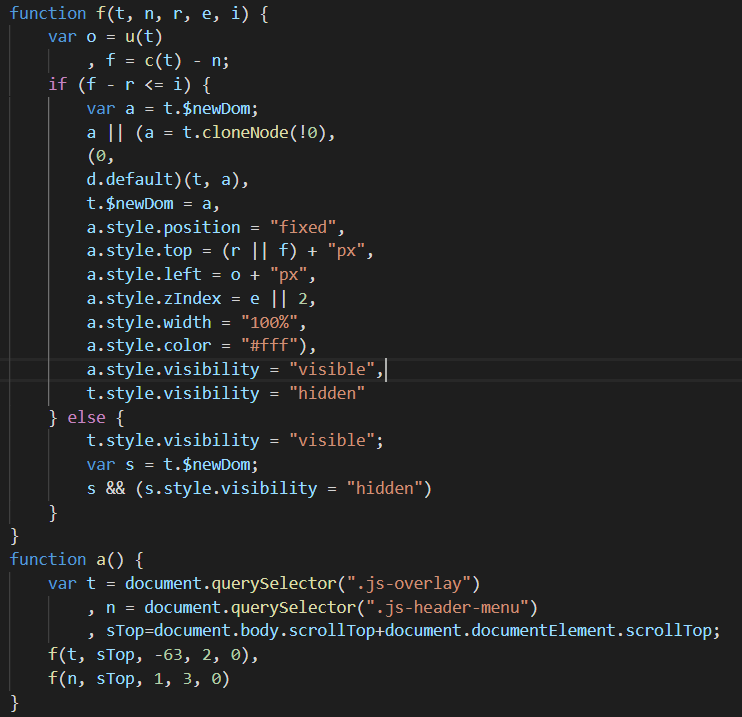
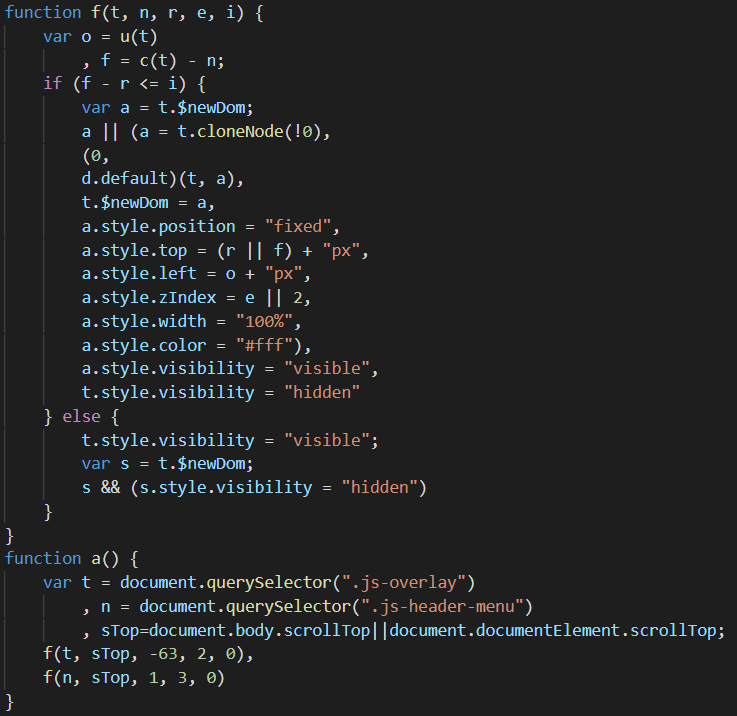
...

diff --git a/themes/yilia/source/main.0cf68a.js b/themes/yilia/source/main.0cf68a.js
@@ -1135,7 +1135,11 @@
                 var i = null
                   , a = window.onscroll
                   , u = e.onclick;
-                (t || window).onscroll = r(function() {
+                t.onscroll = r(function() {
+                    "function" == typeof a && a.apply(this, arguments),
+                    o()
+                }, 100),
+                window.onscroll = r(function() {
                     "function" == typeof a && a.apply(this, arguments),
                     o()
                 }, 100),

diff --git a/themes/yilia/source/mobile.992cbe.js b/themes/yilia/source/mobile.992cbe.js
@@ -3768,7 +3768,7 @@
     function a() {
         var t = document.querySelector(".js-overlay")
             , n = document.querySelector(".js-header-menu")
-            , sTop=document.body.scrollTop+document.documentElement.scrollTop;
+            , sTop=document.body.scrollTop||document.documentElement.scrollTop;
         f(t, sTop, -63, 2, 0),
         f(n, sTop, 1, 3, 0)
     }

diff --git a/themes/yilia/source/main.0cf68a.css b/themes/yilia/source/main.0cf68a.css
@@ -2966,7 +2966,15 @@ pre .css~* .id,pre .id {
     }
 
     .wrap-side-operation {
-        display: none
+        right: 0
+    }
+
+    .jump-container:hover .icon-back {
+        background: #ccc
+    }
+
+    .jump-container:active .icon-back {
+        background: rgba(36,193,246,.9)
     }
 
     .cloud-tie-wrapper {

diff --git a/source/_posts/yilia主题常见问题及解决办法.md b/source/_posts/yilia主题常见问题及解决办法.md
@@ -136,14 +136,10 @@ Google Chrome浏览器
 在我的手机自带浏览器中，博客页面往下滑，你会看到一个效果
 当顶部主页和随笔标签要滑出屏外时，那两个标签会自动在顶端悬停，看图片（主题作者博客测试 网址：[http://litten.me/](http://litten.me/)）
 ***
-![](12.jpg)
-***
-这个是手机自带浏览器显示的效果，这个动画设计的很好，代码我不会。
-有兼容问题的浏览器(Microsoft Edge测试，Google Chrome显示效果相同)
-***
-![](13.jpg)
-***
-动画直接没有，那两个标签直接就滑上去了，但是有一个标签下来了，最左边那个多功能标签，没有背景色，白色的字体，不仔细看都看不出来
+左面是是手机自带浏览器显示的效果，这个动画设计的很好，代码我不会。右面是有兼容问题的浏览器(Microsoft Edge测试，Google Chrome显示效果相同)
+<div><img width=50% src="12.jpg"/><img width=50% src="13.jpg"/></div>
+
+右面的没有左面的效果，那两个标签直接就滑上去了，但是有一个标签下来了，最左边那个多功能标签，没有背景色，白色的字体，不仔细看都看不出来
 这个问题起初我以为是我把主题某个配置文件改了导致的，但是作者博客在Chrome浏览器中测试的结果跟我一样，看来不是我以为的问题，而是这个博客的通病。某个动画效果在这几个浏览器中不兼容。整了将近一下午，也没找到解决办法，主要是前端的知识学的不够，现在学java了，前端的知识忘得更多了。
 **解决方法（自己研究）**
 - 既然有一个标签能下来，有时可能看不见，那就让它可见，添加一个背景色，与上面的颜色相同（因为这个标签是从上面移动下来的，如果颜色不一样，看着很不协调），将背景色改为透明
@@ -275,18 +271,18 @@ Chrome：
 var sTop=document.body.scrollTop+document.documentElement.scrollTop;
 这两个值总会有一个恒为0，所以不用担心会对真正的scrollTop造成影响。一点小技巧，但很实用。
 ***
-- 这个介绍中，明确说了`document.body.scrollTop`在不同浏览器上的不同情况，的确有兼容问题。而且文章中说**谷歌浏览器只认识document.body.scrollTop**，但是我就是在谷歌浏览器上测试效果的，很显然谷歌是不认`document.body.scrollTop`的，因为值始终为0。文章中有提到**因为document.body.scrollTop与document.documentElement.scrollTop两者有个特点，就是同时只会有一个值生效。比如document.body.scrollTop能取到值的时候，document.documentElement.scrollTop就会始终为0；反之亦然。**所以运用文章中的方法`var sTop=document.body.scrollTop+document.documentElement.scrollTop;`测试，方法的确有效，alert后，那个值不为0了
+- 这个介绍中，明确说了`document.body.scrollTop`在不同浏览器上的不同情况，的确有兼容问题。而且文章中说**谷歌浏览器只认识document.body.scrollTop**，但是我就是在谷歌浏览器上测试效果的，很显然谷歌是不认`document.body.scrollTop`的，因为值始终为0。文章中有提到**因为document.body.scrollTop与document.documentElement.scrollTop两者有个特点，就是同时只会有一个值生效。比如document.body.scrollTop能取到值的时候，document.documentElement.scrollTop就会始终为0；反之亦然。**所以运用文章中的方法`var sTop=document.body.scrollTop+document.documentElement.scrollTop;`测试，方法的确有效，alert后，那个值不为0了。当然，可能会有浏览器`document.body.scrollTop`和`document.documentElement.scrollTop`都识别的情况，因此，提供一个`||`语句判断，即`var sTop=document.body.scrollTop||document.documentElement.scrollTop;`。
 - 代码修改如下：
 ```
 function a() {
         var t = document.querySelector(".js-overlay")
             , n = document.querySelector(".js-header-menu")
-            , sTop=document.body.scrollTop+document.documentElement.scrollTop;
+            , sTop=document.body.scrollTop||document.documentElement.scrollTop;
         f(t, sTop, -63, 2, 0),
         f(n, sTop, 1, 3, 0)
     }
 ```
-- 声明一个sTop变量，`var sTop=document.body.scrollTop+document.documentElement.scrollTop;`，将这个变量传到**f函数**中，在浏览器上测试出现了效果。（js效果实现）
+- 声明一个sTop变量，`var sTop=document.body.scrollTop||document.documentElement.scrollTop;`，将这个变量传到**f函数**中，在浏览器上测试出现了效果。（js效果实现）
 ***
 ![](18.png)
 ***
@@ -297,6 +293,176 @@ function a() {
 折腾了几次，找到了问题。如果微信分享二维码存在（即图片路径有效），那么微信分享的div标签即真正隐藏，如果无效，那它就会在顶部的那几个a标签上面隐藏，而使你不能点击那几个a标签
 **解决方法**
 在主题配置文件中关闭分享（我认为分享这个功能没有什么用，想分享直接把url地址分享出去就可以了）或者给微信分享的那个图片添加地址路径
+### 7.yillia主题移动端页面没有返回顶部按钮
+说到这个返回顶部按钮，其实开发者最初开发这款主题时就没有返回顶部按钮，返回顶部按钮是开发者后期加上去的。但是返回顶部按钮只出现在pc端，移动端并没有出现。自己折腾了一下，改了几行代码，解决了移动端没有返回顶部按钮的问题。
+**问题分析**
+- pc端页面按钮出现，移动端按钮不出现。pc浏览器控制台发现，返回顶部按钮是在aside标签中实现的。在pc端页面，aside标签样式display为block，但是在移动端页面，aside标签display值为none。none值为隐藏（这里说明一下，开发者刻意在移动端样式中加了这段代码，这段代码的加入，即使之后的那个o函数被调用，返回顶部的按钮也不会出现）。
+```
+    .wrap-side-operation {
+        display: none
+    }
+```
+- 在aside标签中的div标签看到了`js-jump-container`，依然是调用了script。用编译器打开主题文件，在里面查找`js-jump-container`。在`themes\yilia\source\main.0cf68a.js`中找到相应函数
+```
+    189: function(e, t) {
+        "use strict";
+        function n() {
+            o(document.getElementById("js-jump-container"), document.getElementById("container"))
+        }
+        var o = function(e, t, n) {
+            function o() {
+                e.style.display = (t.scrollTop || document.documentElement.scrollTop || document.body.scrollTop) > (n || 500) ? "block" : "none"
+            }
+            function r(e, t) {
+                var n = null;
+                return function() {
+                    var o = this
+                      , r = arguments;
+                    n && clearTimeout(n),
+                    n = setTimeout(function() {
+                        return "function" == typeof e && e.apply(o, r)
+                    }, t)
+                }
+            }
+            if (e) {
+                var i = null
+                  , a = window.onscroll
+                  , u = e.onclick;
+                (t || window).onscroll = r(function() {
+                    "function" == typeof a && a.apply(this, arguments),
+                    o()
+                }, 100),
+                e.onclick = function() {
+                    "function" == typeof u && u.apply(this, arguments);
+                    t.scrollTop || document.documentElement.scrollTop || document.body.scrollTop;
+                    i = setInterval(function() {
+                        var e = t.scrollTop || document.documentElement.scrollTop || document.body.scrollTop
+                          , n = Math.max(10, e / 6);
+                        e -= n,
+                        e > 0 ? (t.scrollTop = t.scrollTop - n,
+                        window.scrollTo(0, e)) : (t.scrollTop = 0,
+                        window.scrollTo(0, 0),
+                        clearInterval(i))
+                    }, 10)
+                }
+            }
+        };
+        e.exports = {
+            init: n
+        }
+    },
+```
+***
+- 问题就出现在o函数调用上
+![](19.png)
+- 移动端o函数始终不被调用，起初以为是匿名函数在移动端不会被调用，强制调用后，问题没解决
+- 经查询，问题出现在了这上面
+![](20.png)
+- `(t || window).onscroll`,`(t || window)`出了问题，这段代码只在pc端生效，到移动端就不生效了。尝试把`||`换成`|`,问题没解决，反而在控制台报错了。
+- 简单说一下，这段代码和后面的`o()`怎么联系起来的我是没看明白，感觉`(t || window).onscroll`是一个判断，onscroll是在元素轴滚动时触发的。
+- 测试结果显示：`(t || window).onscroll`,`(t || window)`控制后面`o()`函数的调用（我也不太理解这段代码为什么会控制o()的调用，但事实就是如此），`t.onscroll`适用于pc端，`window.onscroll`适用于移动端。
+- o()作用是将标签`<div class="jump-container" id="js-jump-container" style="display: none;"></div>`的`style="display: none;"`改为`style="display: block;"`，从而显示出返回顶部的i标签，点击返回顶部的i标签触发下面返回顶部函数的实现。但是，在移动端样式中，aside标签是被加了`display: none`的，这个div标签被嵌套在aside标签里面。所以，如果想在移动端添加返回顶部标签，`display: none`不能留。
+- 到此，问题查明
+***
+**解决方法**
+- 定位文件`themes\yilia\source\main.0cf68a.css`,在里面查找`.wrap-side-operation`，找到`@media screen and (max-width: 800px)`下的`.wrap-side-operation`，因为要在移动端页面添加返回顶部按钮，所以要在移动端的样式下修改，`@media screen and (max-width: 800px)`即为移动端不同于pc端的样式，在移动端页面时，`@media screen and (max-width: 800px)`样式的权重是高于非`@media screen and (max-width: 800px)`下样式的权重的。
+![](21.png)
+- 修改内容如下：
+```
+    .wrap-side-operation {
+        right: 0
+    }
+
+    .jump-container:hover .icon-back {
+        background: #ccc
+    }
+
+    .jump-container:active .icon-back {
+        background: rgba(36,193,246,.9)
+    }
+```
+- 将`display: none`去掉添加`right: 0`,right控制按钮距离右面的距离，pc端样式right为40px,根据需要更改。以下图片为pc端`right: 40px`与移动端`rigth: 0`效果
+
+<div><img width=50% src ="22.png"/><img width=50% src ="23.png"/></div>
+
+- 添加`.jump-container:hover .icon-back {background: #ccc}`和`.jump-container:active .icon-back {background: rgba(36,193,246,.9)}`的原因是修改点击返回顶部按钮样式。pc端样式代码：
+```
+.jump-container:hover .icon-back {
+    background: rgba(36,193,246,.9)
+}
+```
+- 如果不单独添加那两段代码，移动端返回顶部按钮被点击时，按钮会变为蓝色，且不会还原(刷新页面后会还原)，pc端那个变蓝色是鼠标悬停样式，到移动端会出问题，也有可能会不变色。利用权重的关系，在移动端样式添加这两段代码，只在移动端生效。`:active`为鼠标单击时样式，`:hover`为鼠标悬停时样式。个人感觉`:active`更适用于移动端。
+- `themes\yilia\source\main.0cf68a.js`文件中修改`(t || window).onscroll`。将`(t || window).onscroll`拆开，写成两个
+```
+                t.onscroll = r(function() {
+                    "function" == typeof a && a.apply(this, arguments),
+                    o()
+                }, 100),
+                window.onscroll = r(function() {
+                    "function" == typeof a && a.apply(this, arguments),
+                    o()
+                }, 100),
+```
+- 修改后的函数为
+```
+    189: function(e, t) {
+        "use strict";
+        function n() {
+            o(document.getElementById("js-jump-container"), document.getElementById("container"))
+        }
+        var o = function(e, t, n) {
+            function o() {
+                e.style.display = (t.scrollTop || document.documentElement.scrollTop || document.body.scrollTop) > (n || 500) ? "block" : "none"
+            }
+            function r(e, t) {
+                var n = null;
+                return function() {
+                    var o = this
+                      , r = arguments;
+                    n && clearTimeout(n),
+                    n = setTimeout(function() {
+                        return "function" == typeof e && e.apply(o, r)
+                    }, t)
+                }
+            }
+            if (e) {
+                var i = null
+                  , a = window.onscroll
+                  , u = e.onclick;
+                t.onscroll = r(function() {
+                    "function" == typeof a && a.apply(this, arguments),
+                    o()
+                }, 100),
+                window.onscroll = r(function() {
+                    "function" == typeof a && a.apply(this, arguments),
+                    o()
+                }, 100),
+                e.onclick = function() {
+                    "function" == typeof u && u.apply(this, arguments);
+                    t.scrollTop || document.documentElement.scrollTop || document.body.scrollTop;
+                    i = setInterval(function() {
+                        var e = t.scrollTop || document.documentElement.scrollTop || document.body.scrollTop
+                          , n = Math.max(10, e / 6);
+                        e -= n,
+                        e > 0 ? (t.scrollTop = t.scrollTop - n,
+                        window.scrollTo(0, e)) : (t.scrollTop = 0,
+                        window.scrollTo(0, 0),
+                        clearInterval(i))
+                    }, 10)
+                }
+            }
+        };
+        e.exports = {
+            init: n
+        }
+    },
+```
+- 到此，移动端返回顶部按钮添加成功（主题配置文件依然控制返回顶部按钮的实现）
+***
+通过几次修改主题功能做出以下总结：
+1.开发者很用心，用到js的地方均有js标注，为查找函数省去了一定的麻烦
+2.开发者也考虑到了部分标签在不同浏览器不兼容的情况，开发者运用的是`||`语句，这一点启发了我
+3.ejs文件是导入html代码用的
 ***
 **主题的开发者好久没有更新主题了，有什么问题就要自己动手解决**
 ***

diff --git a/source/_posts/网络程序设计实习报告.md b/source/_posts/网络程序设计实习报告.md
@@ -49,10 +49,10 @@ java实习：机票销售系统
 机票销售系统是可基于任何操作系统上，通过对目前大量出现在网络上的航空订票系统的分析和总结，然后根据航空运作特点，研究一套适合于广大乘客需要、企业认可的航空订票系统。要求系统有简单易懂的视图操作界面，大力提高系统的交互性和可操作性，尽可能减少使用人员的不便，让他们更简单、更快捷、更方便的进行操作。另外，要求系统具有较强的稳定性、可维护性、可移植性、扩充性。同时，实现控制各种用户系统权限，从而保证系统安全性。通过对已有的航空订票系统的研究，结合这些系统存在的优缺点而设计本系统。
 （2）功能需求
 1.机票销售系统，因为涉及到查询，所以考虑利用图结构进行存储。每一个城市作为图中的一个节点，利用邻接矩阵结构进行表示图结构，两节点之间用定义的航班信息结构体进行表示。如果为NULL 则表示没有两城市之间没有航线。然后输入两城市名称后，可以利用改写后的迪克斯特拉或者弗洛伊德算法进行查询。
-2.然后作为订票系统，则应该可以预定三十日以内的飞机票。所以我建立三个文件夹：flight_record、month_flight_information、booking_record
-flight_record 用来存储城市间的航班信息；
-month_flight_information 用来存储三十日内每天的航班信息（每日打开软件会根据flight_record文件夹中的信息进行自动更新）；
-booking_record用来存放订票记录
+2.然后作为订票系统，则应该可以预定三十日以内的飞机票。所以我们建立三个文件夹：flight_record、month_flight_information、booking_record
+- flight_record 用来存储城市间的航班信息；
+- month_flight_information 用来存储三十日内每天的航班信息（每日打开软件会根据flight_record文件夹中的信息进行自动更新）；
+- booking_record用来存放订票记录
 3.为方便管理使用，该系统一个登陆界面根据登陆人群不同分为两个使用界面，分别是用户界面和管理界面。用户在注册的时候，系统会先进行身份证号是否合法验证和查重，如果已经存在则让其联系管理员。
 ***
 四、数据库文件和关系表的结构设计
